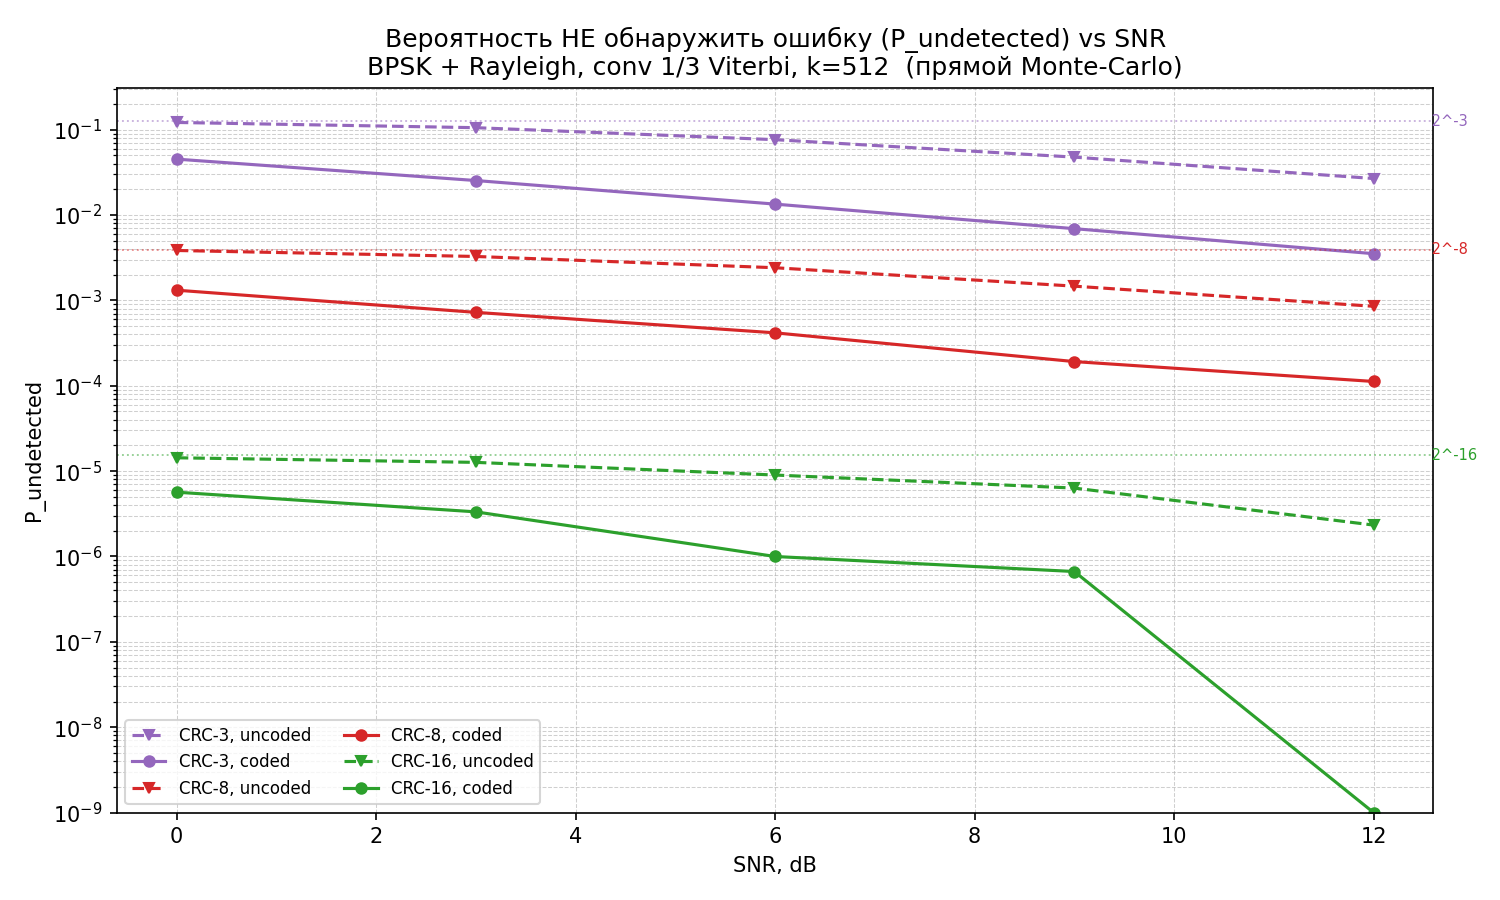
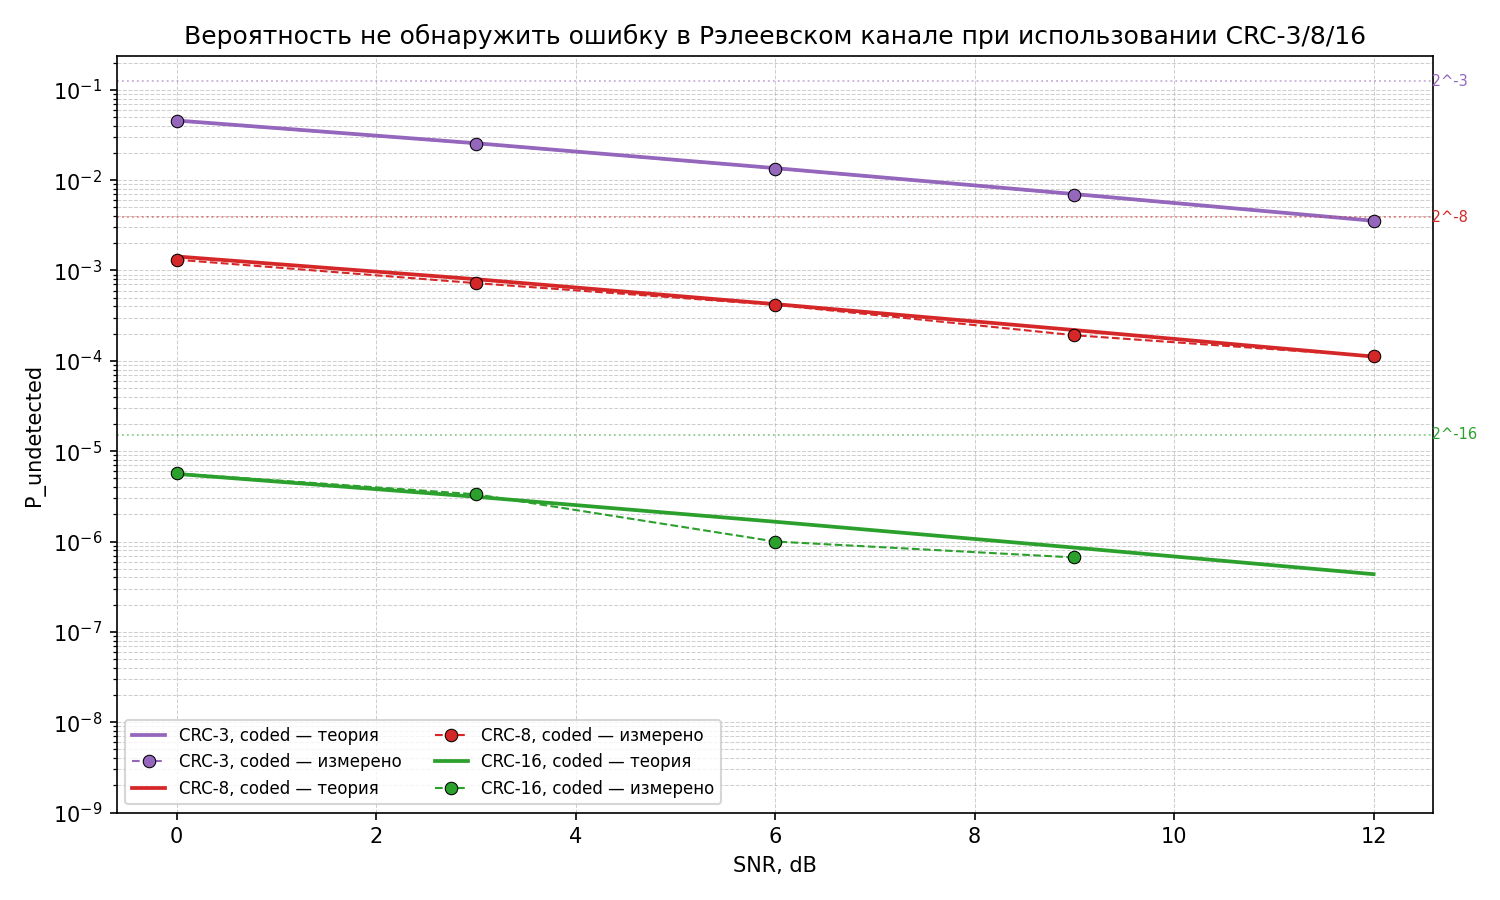
chore(plot_crc_undetected): add --crc filter and update plot style

Changed region(s): [[0.0, 0.0311, 0.9813, 0.9022], [0.0307, 0.7778, 0.092, 0.8089], [0.9507, 0.0622, 0.9813, 0.0933]]

diff --git a/tools/plot_crc_undetected.py b/tools/plot_crc_undetected.py
@@ -54,6 +54,11 @@ def parse_args():
         help="Comma list of modes to draw (default 'uncoded,coded').",
     )
     parser.add_argument(
+        "--crc", default=None,
+        help="Comma list of CRC presets to draw, e.g. '8,16,24a' "
+             "(default: all present in CSV).",
+    )
+    parser.add_argument(
         "--floor", type=float, default=1e-9,
         help="Lower y-limit / floor for zero MC values (default 1e-9).",
     )
@@ -83,6 +88,7 @@ def main():
         raise SystemExit("No data found in CSV file.")
 
     wanted_modes = [m for m in args.modes.split(",") if m]
+    wanted_crcs = [c for c in args.crc.split(",") if c] if args.crc else None
     show_analytic = not (args.measured_only or args.no_analytic)
 
     # groups[(crc, mode)][snr] = {"p_und", "n_und", "p_frame"}
@@ -92,6 +98,8 @@ def main():
     for row in rows:
         crc, mode = row["crc"], row["mode"]
         if mode not in wanted_modes:
+            continue
+        if wanted_crcs is not None and crc not in wanted_crcs:
             continue
         if crc not in crc_r:
             crc_r[crc] = int(row["r"])
@@ -121,19 +129,21 @@ def main():
             style = MODE_STYLE.get(mode, dict(linestyle="-", marker="o"))
 
             if show_analytic:
-                # Гладкая аналитическая кривая P_frame·2^-r.
+                # Гладкая теоретическая кривая P_frame·2^-r.
                 y = [series[s]["p_frame"] * (2.0 ** -r) for s in snr]
                 y = [v if v > 0 else args.floor for v in y]
                 ax.semilogy(snr, y, color=color, linewidth=1.8,
-                            linestyle=style["linestyle"],
-                            label=f"CRC-{crc.upper()}, {mode} (модель)")
-                # Реальные MC-точки только там, где были события.
+                            linestyle="-",
+                            label=f"CRC-{crc.upper()}, {mode} — теория")
+                # Реальные MC-измерения (линия с маркерами) там, где были события.
                 mx = [s for s in snr if series[s]["n_und"] > 0]
                 my = [series[s]["p_und"] for s in mx]
                 if mx:
-                    ax.scatter(mx, my, color=color, marker=style["marker"],
-                               s=45, edgecolors="black", linewidths=0.5,
-                               zorder=5)
+                    ax.semilogy(mx, my, color=color, linestyle="--",
+                                linewidth=1.0, marker=style["marker"],
+                                markersize=6, markeredgecolor="black",
+                                markeredgewidth=0.5, zorder=5,
+                                label=f"CRC-{crc.upper()}, {mode} — измерено")
             else:
                 # Только измерения: нули — на floor.
                 y = [series[s]["p_und"] if series[s]["p_und"] > 0 else args.floor
@@ -152,12 +162,6 @@ def main():
                         transform=ax.get_yaxis_transform(),
                         va="center", ha="left", fontsize=7,
                         color=CRC_COLORS.get(crc, "gray"))
-
-    if show_analytic:
-        # Поясняющая запись про маркеры.
-        ax.scatter([], [], color="gray", marker="o", s=45,
-                   edgecolors="black", linewidths=0.5,
-                   label="Monte-Carlo (валидация)")
 
     ax.set_xlabel("SNR, dB")
     ax.set_ylabel("P_undetected")
